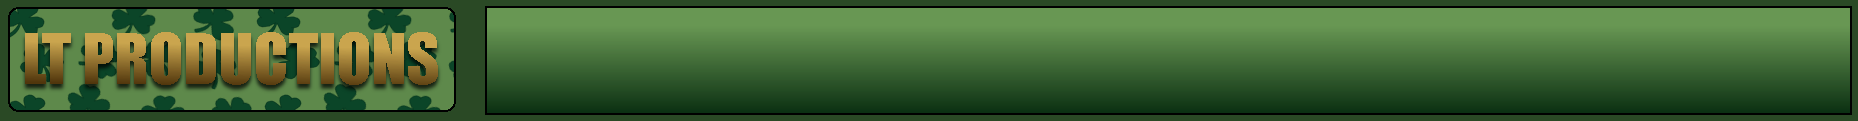
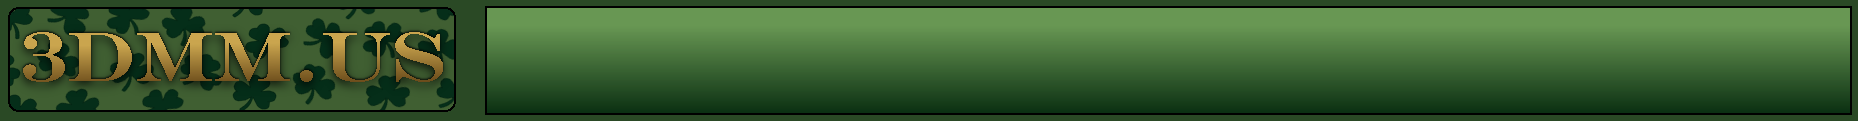
Holiday Themes: Part 4

Changed region(s): [[0.0, 0.0744, 0.2497, 0.9174]]

diff --git a/holiday/stfrontpagenews.html b/holiday/stfrontpagenews.html
@@ -16,16 +16,66 @@
    <body style="background:url(./holidays/stpatricksnews.png);">
     <center><font size="10" color="white">Site News:</font></center><br>
     <center><font size="2" color="#a2a2a5">In order to get the latest updates, you may need to refresh the page (ctrl+f5) in order to see it.</font></center><br>
-
-<i><font size="5" color="white">3/15/2025 - St Patrick's Day Update</font></i>
+    <i><font size="5" color="white">1/1/2025 - 3DMM.US NEW YEARS BASH!</font></i>
+<br><font size="3" color="white">Hi, I'm LT Films (Owner of 3dmm.us) and I'm delighted to say to anyone reading this blog post.. HAPPY FUCKING NEW YEAR! 3DMM.US HAS MADE IT TO 2026 AND I COULDN'T BE MORE DELIGHTED. The Digital Advent Calendar kinda fell apart because I rushed literally every day because I didn't prep ahead. But I restored everything back to normal and soon I'll update the site settings where you can choose between the 3 holiday themes that this site has had. Thank you for reading this blog post and HAPPY NEW YEAR!</font><br>
+<br>
+    <i><font size="5" color="white">12/1/2025 - BRAND NEW ADVENT CALENDAR PAGE!</font></i>
+<br><font size="3" color="white">Hello ladies and gentlemen, LT Films here. I'm delighted to announce that the once-blank button now redirects to... A DIGITAL ADVENT CALENDAR! The basic idea is this, every day I update the site (specifically the advent calendar page)
+with a brand new .zip download link containing a zip file of various digital xmas goods. There's already a zip file on the page itself. So what are you waiting for? GO TO THE PAGE AND DOWNLOAD IT! (I wanted to experiment on something new for the site holiday themes and I came up with this for the formerly Hall Of Fame 3dmm page.)</font><br>
+<br>
+<i><font size="5" color="white">11/28/2025 - CHRISTMAS OVERHAUL!</font></i>
+<br><font size="3" color="white">Ah yes, Christmas. The last major holiday for the year. In celebration of this fine holiday, the entire site has a brand spanking new christmas theme! On new years day, the site'll go back to it's original state. Anyways, enjoy your eggnog,
+  wait to unwrap your presents, and a lot of time with your family. Thanks for reading this blog post.
+</font><br>
+<br>
+    <i><font size="5" color="white">11/8/2025 - Site Restored... For now.</font></i>
+<br><font size="3" color="white">Since halloween is over, I changed the site back to what it was previously. Currently the guestbook is unavailible until further notice due to the fact that ultraguest doesn't like being embedded
+  into other sites anymore, so I'm working on fixing that. On either the day before thanksgiving or the day of thanksgiving, or even the day after thanksgiving, I'll be changing the site to reflect that it's christmas.
+  Whenever January comes around, I'll make it so that you can view the holiday themes alongside the normal site themes. Thank you for reading this blog post.
+</font><br>
+<br>
+    <i><font size="5" color="white">10/15/2025 - COMPLETE HALLOWEEN THEME OVERHAUL.</font></i>
+<br><font size="3" color="white">Hello everyone. Lt Films here.
+   Since halloween's coming up, I decided to overhaul all of 3dmm.us with a halloween theme that'll most likely last from today to November 7th, 2025. On top of there being a new theme, there will also be some new movies added relating to halloween. So go ahead and explore the site, and make sure to have a happy halloween! (P.S. Check your candy whenever you go trick or treating.)
+</font><br>
+<br><i><font size="5" color="white">9/19/2025 - Newer Update + Hiatus.</font></i>
+<br><font size="3" color="white">Wow, it's been exactly 2 months and 16 days since this since got updated. Well, I added a few new movies and some other stuff. I'm gonna be taking a hiatus from working on this site/working on 3dmm movies. I'm in a bad mindset/overall attitude and I'm gonna leave so I can regain motivation and a better mindset. Please enjoy everything that comes with this update, because there will not be another for a while. 
+  Thanks to everyone who followed this site's progress and liked watching my movies, LT Films.
+</font><br>
+        <br><i><font size="5" color="white">7/3/2025 - New Update!</font></i>
+<br><font size="3" color="white">On this new update of 3dmm.us, there's 10 new movies and the counter got refreshed. The counter had to be refreshed because it decided to break again.
+  A few examples of the new movies that were added are MoonJug, Ballistic Bellend, and 00Dee Boned: Venison Jelly.
+</font><br>
+    <br><i><font size="5" color="white">5/20/2025 - New update!</font></i>
+<br><font size="3" color="white">This update contains 5 new movies and a redesign of the posters page. I also decided to add a few new posters to the posters page and the counter was update to reflect
+ the current visitor count for this site. Thank you for reading this blurb.
+</font><br>
+    <br><i><font size="5" color="white">5/6/2025 - Small Update</font></i>
+<br><font size="3" color="white">This update adds 4 new movies to the database (I usually put in 5 but I decided to not this time since I did 8 movies last update), and I redesigned the rest of the themes that previously said
+  "LT PRODUCTIONS" to now say "3DMM.US". The reason for the change of layout was because I wanted to go all in on the site being named after the domain itself. 
+</font><br>
+<br><i><font size="5" color="white">5/3/2025 - Quick Update/Beginning of May</font></i>
+<br><font size="3" color="white">So that I could get it out of the way, here's a new update to the site. It's not too much, only 8 movies but it's enough to keep the site busy until I come back with a legitimate update.
+  Currently, I'm still working on Moonjug and it'll be released Summer 2025. I'm 150 scenes in as of writing this and I believe this is the best movie I've worked on this year so far.
+  Anyways, watch the movies I added and have a good day.
+</font><br>
+<br><i><font size="5" color="white">4/20/2025 - Happy Easter/420 Day!</font></i>
+<br><font size="3" color="white">In celebration of easter (and since I haven't updated the site in a month and 2 days), I added 5 new movies including the easter special for Wouldn't It Be.
+   Duplicate movies in the HoF were changed to new movies aswell. Other than that, enjoy your sweet treats and have a decent day today.
+</font><br>
+<br><i><font size="5" color="white">3/18/2025 - 3d Movie Maker's 30th Anniversary</font></i>
+<br><font size="3" color="white">In 1995, Microsoft made 3d Movie Maker. It was originally a program made for kids, but it ended up sparking one of the biggest internet niches to ever exist.
+     In celebration of this program turning 30, I opened up the 3DMM Hall Of Fame to the public so that y'all could see (what in my opinion) are the best movies of each decade starting in 1996. I also added 2 new themes, "Terminal" and "Bulletin Board". I highly suggest viewing the site in Bulletin Board to get the best experience for today.
+</font><br>
+    <br><i><font size="5" color="white">3/15/2025 - St Patrick's Day Update</font></i>
 <br><font size="3" color="white">Happy Saint Patrick's Day.... kind of. Notice how this update happened a few days before the actual day of saint patrick's day? That's because I didn't want this site theme to last for only a day.
   Anyways, I added a few new movies to the site for you to enjoy. Remember, have a nice day and wear green!
 </font><br>
-<br><i><font size="5" color="white">3/14/2025 - 3.14 Day Mini Update</font></i>
+    <br><i><font size="5" color="white">3/14/2025 - 3.14 Day Mini Update</font></i>
 <br><font size="3" color="white">Happy pi day! Since it's not that big of an update (that's for st. patrick's day), I decided to only upload a few movies and nothing more. Anyways, enjoy the day today by eating pie and referencing math.</font><br>
-<br><i><font size="5" color="white">3/7/2025 - Need Movie Submissions for New Update</font></i>
-<br><font size="3" color="white">Since St. Patricks Day is coming up, I decided to make a little site theme for it. Unfortunetly though, I haven't getting any submissions for the site. So that this isn't just a site reskin, go ahead and go to the submissions page and follow the instructions there.</font><br>
-<font size="3" color="#DAA520">SUBMISSIONS ARE DUE 3/14/2025</font><br>
+    <br><i><font size="5" color="white">3/7/2025 - Need Movie Submissions for New Update</font></i>
+    <br><font size="3" color="white">Since St. Patricks Day is coming up, I decided to make a little site theme for it. Unfortunetly though, I haven't getting any submissions for the site. So that this isn't just a site reskin, go ahead and go to the submissions page and follow the instructions there.</font><br>
+    <font size="3" color="#DAA520">SUBMISSIONS ARE DUE 3/14/2025</font><br>
 <br><i><font size="5" color="white">3/3/2025 - Added Themes</font></i>
 <br><font size="3" color="white">I decided to finally make a theme for the site that actually uses the .us part of 3DMM.US. There's also a settings page on the navbar to switch between the US theme and the standard look. Enjoy this mini quality of life update.</font><br>    
 <br><i><font size="5" color="white">3/1/2025 - Small Update</font></i>

diff --git a/holiday/stnavbar.html b/holiday/stnavbar.html
@@ -10,7 +10,7 @@
          This makes it easier to make new pages for your site. -->
     <link href="./ststyle.css" rel="stylesheet" type="text/css" media="all">
    </head>
-   <style>
+<style>
 
 .navbar img:active
 {
@@ -18,7 +18,7 @@ filter: brightness(0.9);
 }
 
 .navbg{
-    background-image: linear-gradient(#689753, #0D3214);
+    background-image: linear-gradient(#82688C, #2E2035);
     background-size: 100% 100%;
     width: 200px;
     height: 700px;
@@ -38,40 +38,44 @@ filter: brightness(0.9);
 
 
 <script>
-    var hoversnd = new Audio('https://files.catbox.moe/i9oapt.wav');
-    var clicksnd = new Audio('https://files.catbox.moe/lxhjfk.wav');
+    var hoversnd = new Audio('https://files.catbox.moe/n1piby.wav');
+    var clicksnd = new Audio('https://files.catbox.moe/yvsizg.wav');
     </script>
 
-   <body class="navbg">
+   <body style="background:url(./holidays/navbar.png);">
     <p class="navbar">
-        <a onmousedown="clicksnd.play();" onmouseover="hoversnd.play();" href="shippingouttoboston.html" target="_top"><img src="./holidays/nav/stp8.png"></a>
+        <a onmousedown="clicksnd.play();" onmouseover="hoversnd.play();" href="shippingouttoboston.html" target="_top"><img src="./Site_Images/nav/index.png"></a>
         </p>
     <p class="navbar">
-        <a onmousedown="clicksnd.play();" onmouseover="hoversnd.play();" href="stmywork.html" target="_top"><img src="./holidays/nav/stp1.png"></a>
+        <a onmousedown="clicksnd.play();" onmouseover="hoversnd.play();" href="stmywork.html" target="_top"><img src="./Site_Images/nav/1.png"></a>
         </p>
         <p class="navbar">
-            <a onmousedown="clicksnd.play();" onmouseover="hoversnd.play();" href="stcommunity.html" target="_top"><img src="./holidays/nav/stp2.png"></a>
+            <a onmousedown="clicksnd.play();" onmouseover="hoversnd.play();" href="stcommunity.html" target="_top"><img src="./Site_Images/nav/2.png"></a>
             </p>
             <p class="navbar">
-                <a onmousedown="clicksnd.play();" onmouseover="hoversnd.play();" href="stsubmit.html" target="_top"><img src="./holidays/nav/stp3.png"></a>
+                <a onmousedown="clicksnd.play();" onmouseover="hoversnd.play();" href="stsubmit.html" target="_top"><img src="./Site_Images/nav/3.png"></a>
                 </p>
                 <p class="navbar">
-                    <a onmousedown="clicksnd.play();" onmouseover="hoversnd.play();" href="stposters.html" target="_top"><img src="./holidays/nav/stp4.png"></a></a>
+                    <p class="navbar">
+                        <a onmousedown="clicksnd.play();" onmouseover="hoversnd.play();" href="halloffame3dmm.html" target="_top"><img src="./Site_Images/nav/9.png"></a>
+                        </p>
+                    <a onmousedown="clicksnd.play();" onmouseover="hoversnd.play();" href="stposters.html" target="_top"><img src="./Site_Images/nav/4.png"></a></a>
                     </p>
                     <p class="navbar">
-                        <a onmousedown="clicksnd.play();" onmouseover="hoversnd.play();" href="stlinks.html" target="_top"><img src="./holidays/nav/stp5.png"></a>
+                        <a onmousedown="clicksnd.play();" onmouseover="hoversnd.play();" href="stlinks.html" target="_top"><img src="./Site_Images/nav/5.png"></a>
                         </p>
                         <p class="navbar">
-                            <a onmousedown="clicksnd.play();" onmouseover="hoversnd.play();" href="stabout.html" target="_top"><img src="./holidays/nav/stp6.png"></a>
+                            <a onmousedown="clicksnd.play();" onmouseover="hoversnd.play();" href="stabout.html" target="_top"><img src="./Site_Images/nav/6.png"></a>
                             </p>
                                 <p class="navbar">
-                                    <a onmousedown="clicksnd.play();" onmouseover="hoversnd.play();" href="stguestbook.html" target="_top"><img src="./holidays/nav/stp7.png"></a>
+                                    <a onmousedown="clicksnd.play();" onmouseover="hoversnd.play();" href="stguestbook.html" target="_top"><img src="./Site_Images/nav/8.png"></a>
                                   </p>
                                   <div class="visitorcount">
-                                    <font size="4" color="white">Visitors Since Dec. 2024:</font>
+                                    <font size="4" color="white">Visitor Count:</font>
                                   </div>
-                                  <div class="counter"><a href='https://www.free-website-hit-counter.com'><img src='https://www.free-website-hit-counter.com/zc.php?d=9&id=6258&s=16' border='0' alt='Free Website Hit Counter'></a><br /><small></small></div><br>
+                                  <div class="counter"><a href='https://www.counter12.com'><img src='https://www.counter12.com/img-4CZZcaWdy9w4adCc-29.gif' border='0' alt='contador grátis'></a></div>
 
+                                  <font size="2" color="white"><img src="./Site_Images/settingsgear.png" style="width:25px;height:25px;"><a href="stsettings.html" target="_top">SETTINGS</a></font>
                                  
 
     </body>

diff --git a/holiday/shippingouttoboston.html b/holiday/shippingouttoboston.html
@@ -4,7 +4,7 @@
     <meta charset="UTF-8">
     <meta name="viewport" content="width=device-width, initial-scale=1.0">
     <link rel="icon" type="image/x-icon" href="./holidays/favsticon.png">
-    <title>LT PRODUCTIONS - Happy St Patricks!</title>
+    <title>3DMM.US | Index</title>
     <!-- The style.css file allows you to change the look of your web pages.
          If you include the next line in all your web pages, they will all share the same look.
          This makes it easier to make new pages for your site. -->
@@ -51,10 +51,10 @@ color:  rgb(177, 176, 176);
         </script>
         <img src="./holidays/stpatricksheader.png">
         <div class="welcome">
-          <font Size="10">Welcome to LT PRODUCTIONS.</font>
+          <font Size="10">Welcome to 3DMM.US</font>
         </div>
         <div class="last">
-          <em><font Size="5">LAST UPDATED: 3/15/2025</font></em>
+          <em><font Size="5">LAST UPDATED: 1/1/2026</font></em>
         </div>
       <iframe id="navigation" src="./stnavbar.html" width="200" height="700" scrolling="no" padding="0" align="left"></iframe>
        

diff --git a/settings.html b/settings.html
@@ -21,6 +21,6 @@
     <br>
     <center><font size="5">Holiday Themes:</font></center><br>
 
-    <br><center><a href="https://3dmm.us/holiday/halloween25/hw25settings.html" target="_top"><img src="https://3dmm.us/holiday/halloween25/Site_Images/nav/halloween25.png"></a><br><a href="https://3dmm.us/holiday/xmas/xmassettings.html" target="_top"><img src="https://3dmm.us/holiday/xmas/Site_Images/nav/xmas.png"></a></center>
+    <br><center><a href="https://3dmm.us/holiday/stsettings.html" target="_top"><img src="https://3dmm.us/holiday/holidays/nav/saintpatricks.png"></a><a href="https://3dmm.us/holiday/halloween25/hw25settings.html" target="_top"><img src="https://3dmm.us/holiday/halloween25/Site_Images/nav/halloween25.png"></a><a href="https://3dmm.us/holiday/xmas/xmassettings.html" target="_top"><img src="https://3dmm.us/holiday/xmas/Site_Images/nav/xmas.png"></a></center>
   </body>
 </html>

diff --git a/holiday/stsettings.html b/holiday/stsettings.html
@@ -21,6 +21,6 @@
     <br>
     <center><font size="5" color="white">Holiday Themes:</font></center><br>
 
-    <br><center><a href="https://3dmm.us/holiday/halloween25/hw25settings.html" target="_top"><img src="https://3dmm.us/holiday/halloween25/Site_Images/nav/halloween25.png"></a><a href="./xmassettings.html" target="_top"><img src="./Site_Images/nav/xmas.png"></a></center>
+    <br><center><a href="./stsettings.html" target="_top"><img src="./holidays/nav/saintpatricks.png"></a><a href="https://3dmm.us/holiday/halloween25/hw25settings.html" target="_top"><img src="https://3dmm.us/holiday/halloween25/Site_Images/nav/halloween25.png"></a><a href="https://3dmm.us/holiday/xmas/xmassettings.html" target="_top"><img src="https://3dmm.us/holiday/xmas/Site_Images/nav/xmas.png"></a></center>
   </body>
 </html>

diff --git a/holiday/halloween25/hw25settings.html b/holiday/halloween25/hw25settings.html
@@ -21,6 +21,6 @@
     <br>
     <center><font size="5" color="white">Holiday Themes:</font></center><br>
 
-    <br><center><a href="./hw25settings.html" target="_top"><img src="./Site_Images/nav/halloween25.png"></a><br><a href="https://3dmm.us/holiday/xmas/xmassettings.html" target="_top"><img src="https://3dmm.us/holiday/xmas/Site_Images/nav/xmas.png"></a></center>
+    <br><center><a href="./hw25settings.html" target="_top"><img src="./Site_Images/nav/halloween25.png"></a><a href="https://3dmm.us/holiday/xmas/xmassettings.html" target="_top"><img src="https://3dmm.us/holiday/xmas/Site_Images/nav/xmas.png"></a></center>
   </body>
 </html>

diff --git a/holiday/stguestbook.html b/holiday/stguestbook.html
@@ -16,7 +16,7 @@ background-image:url(/navbar.png);
   <body style="background:url(./holidays/stpatricksindex.png);">
       <iframe id="navigation" src="./stnavbar.html" width="200" height="700" scrolling="no" padding="0" align="left"></iframe>
 
-  <center><iframe src="https://www.ultraguest.com/view/1739644336" style="width:1000px; height: 3000px; margin: 0; padding: 0;"></center>
+   <center><iframe src="https://3dmmusguestbook.atabook.org/" style="width:1000px; height: 3000px; margin: 0; padding: 0;"></center>
   </body>
   
 </html>
